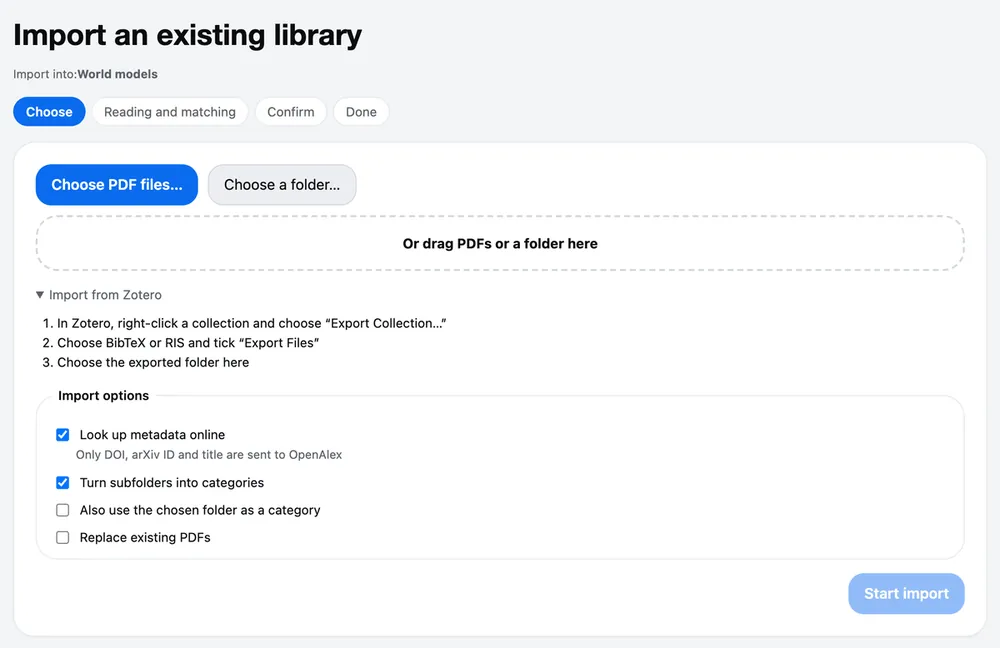
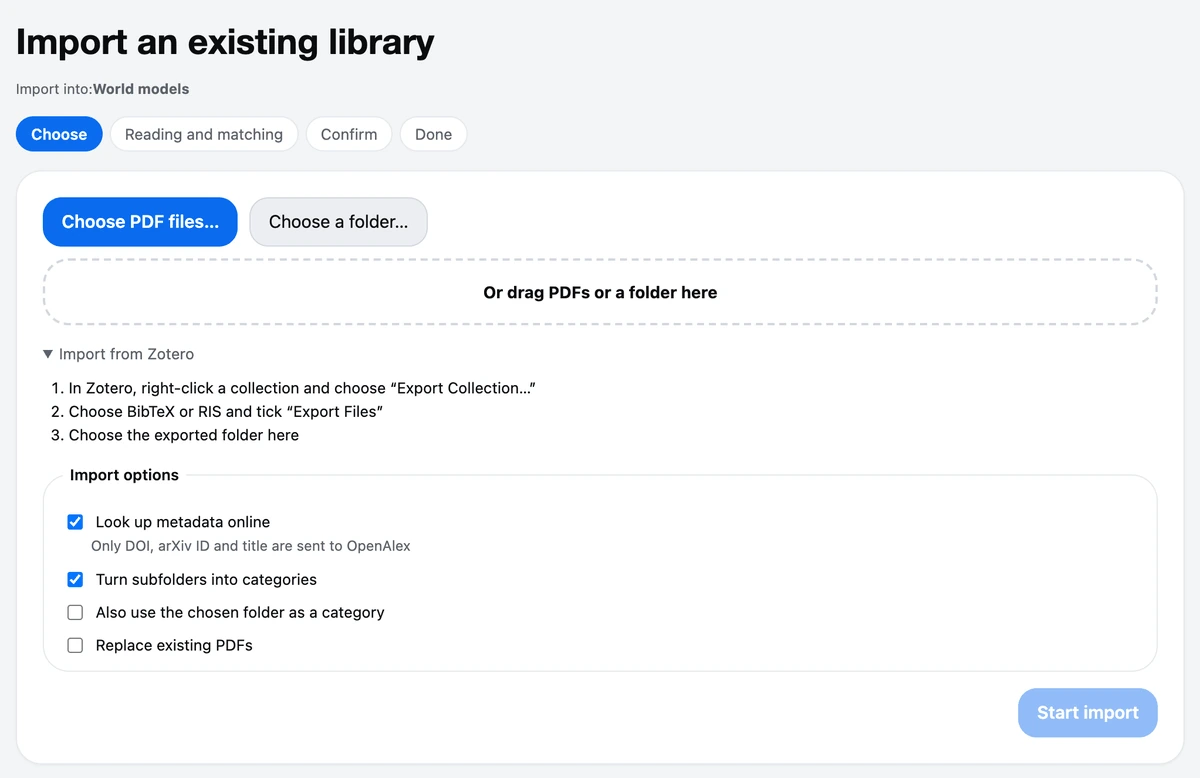
Site: the promo cover is the hero image; screenshots re-exported at full width and higher quality (they were 1000 px at q80 and blurred on 2x screens)

diff --git a/site/zh/index.html b/site/zh/index.html
@@ -75,8 +75,8 @@
   <p class="fine">MIT 开源 · 不用注册 · 不收集数据</p>
   <div class="hero-stage"><figure class="hero-shot" id="hero-shot">
     <picture>
-      <source type="image/webp" srcset="/assets/zh-today-hero.webp">
-      <img src="/assets/zh-today.png" width="1600" height="1000" fetchpriority="high" decoding="async" alt="“今日推荐”界面：按画像排好序的新论文，每篇附一句 AI 速览，以及“收藏”“不感兴趣”“太难”三个按钮。">
+      <source type="image/webp" srcset="/assets/cover.webp">
+      <img src="/assets/cover.jpg" width="1920" height="1080" fetchpriority="high" decoding="async" alt="PageTide 封面：推荐贴合你研究的论文。今日推荐与 AI 速览、背后的画像关键词，以及 PageTide 检索的开放来源。">
     </picture>
   </figure></div>
 </section>

diff --git a/site/index.html b/site/index.html
@@ -75,8 +75,8 @@
   <p class="fine">MIT · No account · No telemetry</p>
   <div class="hero-stage"><figure class="hero-shot" id="hero-shot">
     <picture>
-      <source type="image/webp" srcset="/assets/en-today-hero.webp">
-      <img src="/assets/en-today.png" width="1600" height="1000" fetchpriority="high" decoding="async" alt="The Today screen: a ranked list of new papers, each with a one-line AI preview and Save, Not interested and Too hard buttons.">
+      <source type="image/webp" srcset="/assets/cover.webp">
+      <img src="/assets/cover.jpg" width="1920" height="1080" fetchpriority="high" decoding="async" alt="PageTide: papers that fit your research. Today's picks with AI previews, the profile keywords behind them and the open sources PageTide searches.">
     </picture>
   </figure></div>
 </section>

diff --git a/site/template.html b/site/template.html
@@ -75,8 +75,8 @@
   <p class="fine">{{hero.fine}}</p>
   <div class="hero-stage"><figure class="hero-shot" id="hero-shot">
     <picture>
-      <source type="image/webp" srcset="/assets/{{lang}}-today-hero.webp">
-      <img src="/assets/{{lang}}-today.png" width="1600" height="1000" fetchpriority="high" decoding="async" alt="{{hero.shot_alt}}">
+      <source type="image/webp" srcset="/assets/cover.webp">
+      <img src="/assets/cover.jpg" width="1920" height="1080" fetchpriority="high" decoding="async" alt="{{hero.shot_alt}}">
     </picture>
   </figure></div>
 </section>

diff --git a/site/prep_assets.py b/site/prep_assets.py
@@ -16,7 +16,7 @@ OUT = HERE / "assets"
 README = REPO / "docs" / "assets" / "readme"
 
 
-def webp(src, dst, width, quality=80):
+def webp(src, dst, width, quality=92):
     im = Image.open(src).convert("RGB")
     if im.width > width:
         im = im.resize((width, round(im.height * width / im.width)), Image.LANCZOS)
@@ -29,11 +29,10 @@ def main():
         for name in ("today", "reader-ask", "profile", "graph", "import", "weekly"):
             f = f"{lang}-{name}.png"
             shutil.copy2(README / f, OUT / f)
-            webp(README / f, OUT / f.replace(".png", ".webp"), 1000)
-    for lang in ("en", "zh"):
-        webp(README / f"{lang}-today.png", OUT / f"{lang}-today-hero.webp", 1600, 84)
-    webp(README / "cover.jpg", OUT / "cover.webp", 1280)
-    shutil.copy2(README / "cover.jpg", OUT / "cover.jpg")
+            webp(README / f, OUT / f.replace(".png", ".webp"), 1600)   # full source width: sharp on 2x screens
+    cover = MAIN / ".local/readme-video/pagetide-x30-cover.png"          # the promo cover, 1920x1080, the hero image
+    webp(cover, OUT / "cover.webp", 1920, 90)
+    Image.open(cover).convert("RGB").save(OUT / "cover.jpg", "JPEG", quality=90, optimize=True, progressive=True)
     shutil.copy2(MAIN / ".local/readme-video/pagetide-readme-cover-first.mp4", OUT / "pagetide-promo.mp4")
     shutil.copy2(MAIN / ".local/social/pagetide-social-preview.png", OUT / "og.png")
     shutil.copy2(REPO / "app/static/wordmark.png", OUT / "wordmark.png")
